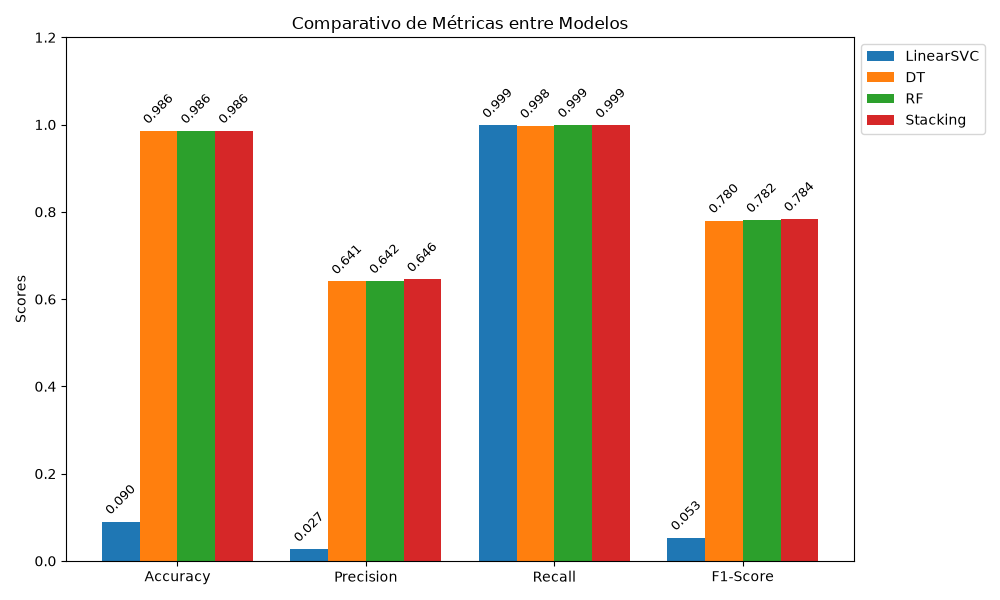
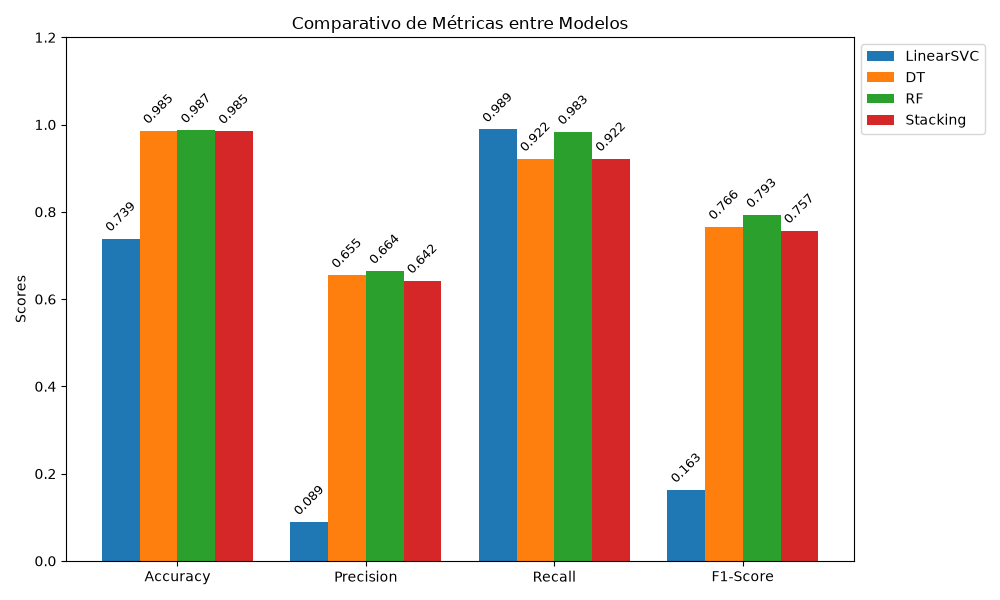
feat: atualizar Stacking Ensemble para utilizar apenas SVM e DT

diff --git a/src/models.py b/src/models.py
@@ -74,7 +74,7 @@ def get_meta_learner(random_state=42):
 
 def get_stacking_classifier(random_state=42):
     """
-    Constrói o Stacking Ensemble otimizado (LinearSVC Calibrado, RF e Extra Trees).
+    Constrói o Stacking Ensemble otimizado contendo apenas LinearSVC Calibrado e Decision Tree (DT).
     Utiliza StratifiedKFold de 3 splits para otimizar drasticamente o tempo de treinamento.
     """
     base_estimators = get_base_learners(random_state=random_state)
@@ -83,10 +83,8 @@ def get_stacking_classifier(random_state=42):
     linearsvc_key = 'linearsvcCalibrated' if 'linearsvcCalibrated' in estimators_dict else 'linearsvc'
     stacking_estimators = [
         (linearsvc_key, estimators_dict[linearsvc_key]),
-        ('rf', estimators_dict['rf'])
+        ('dt', estimators_dict['dt'])
     ]
-    if 'et' in estimators_dict:
-        stacking_estimators.append(('et', estimators_dict['et']))
     
     meta_learner = get_meta_learner(random_state=random_state)
     # n_splits=3 para acelerar em ~40% a validação cruzada do stacking mantendo alta estabilidade
